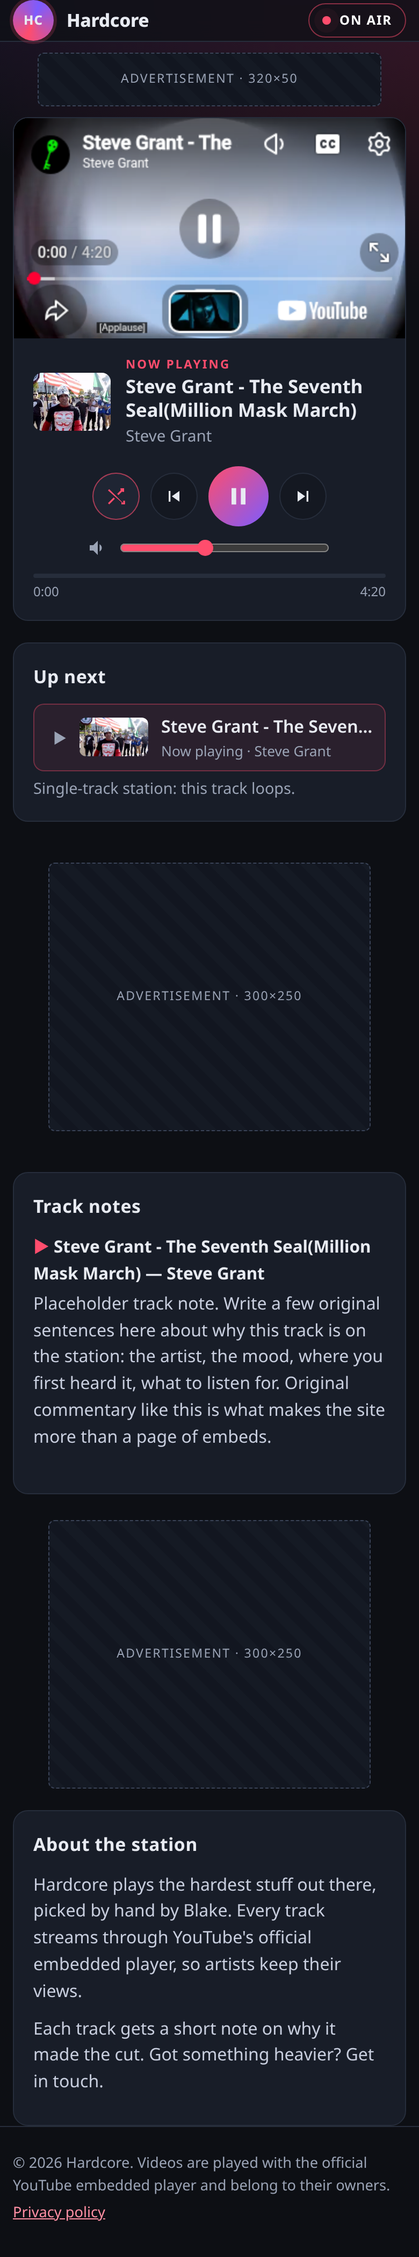
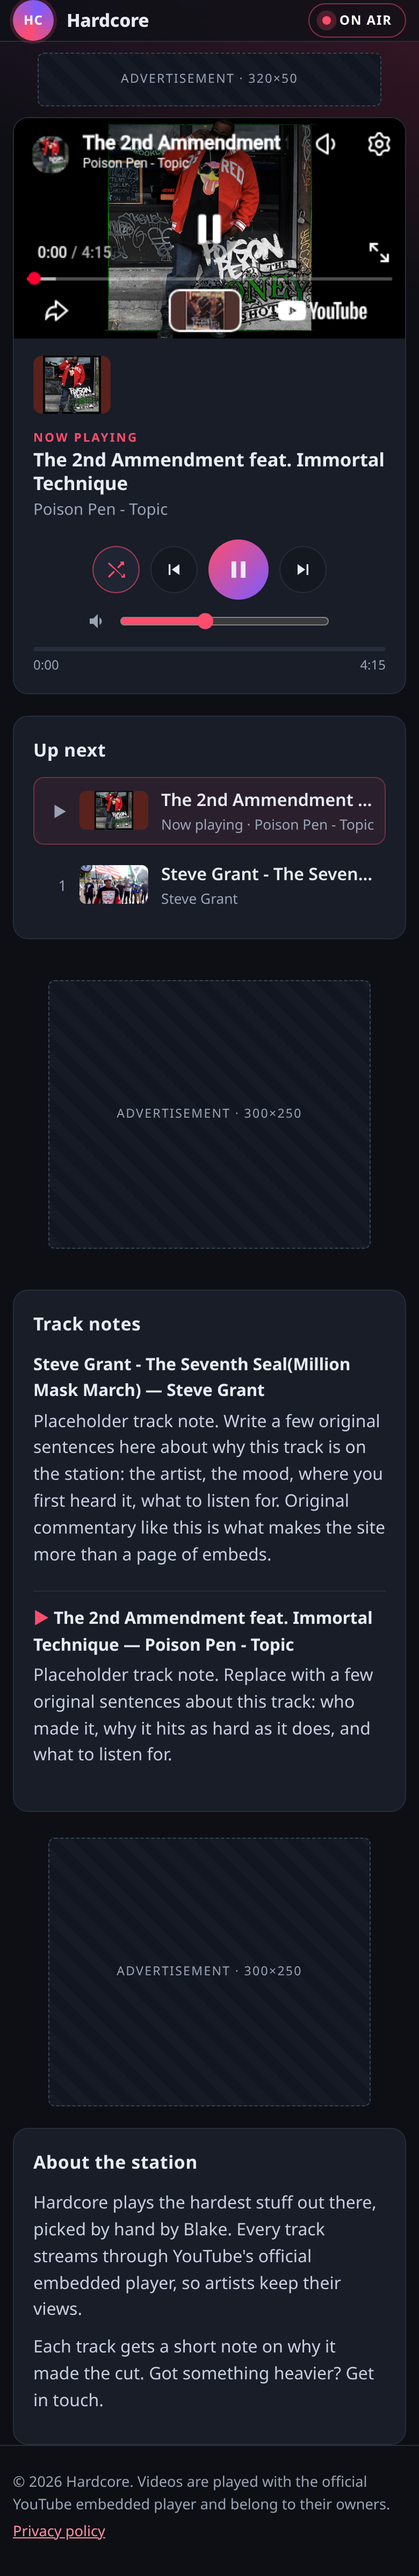
Add second track (1yOoM7_AseY) and Firebase thumbs up/down ratings (hidden until configured)

diff --git a/ratings.js b/ratings.js
@@ -1,0 +1,154 @@
+/* Hardcore: per-track thumbs up/down ratings (Firebase Firestore + Anonymous Auth).
+ * ES module, no build step. Loads the Firebase SDK from gstatic ONLY when firebase-config.js
+ * holds a real config. With placeholders it does nothing (UI stays hidden, no console noise).
+ * Talks to app.js via window.RadioState and the "radio:tracks" event.
+ */
+const SDK = "https://www.gstatic.com/firebasejs/12.19.0";
+const ID_RE = /^[A-Za-z0-9_-]{11}$/;
+
+function isConfigured(c) {
+  return !!(c && c.apiKey && c.projectId && c.appId &&
+    ![c.apiKey, c.projectId, c.appId].some((v) => /YOUR_|PLACEHOLDER/i.test(String(v))));
+}
+
+// Local testing against the Firebase emulators: http://localhost:8080/?emulator=1
+const params = new URLSearchParams(location.search);
+const EMU = params.has("emulator") && /^(localhost|127\.0\.0\.1)$/.test(location.hostname);
+const cfg = EMU ? { apiKey: "demo-key", projectId: "demo-hardcore", appId: "demo-app", authDomain: "localhost" }
+                : window.FIREBASE_CONFIG;
+
+if (isConfigured(cfg)) init().catch((e) => { hideUi(); console.info("Ratings unavailable:", e && e.code || e); });
+
+function hideUi() { const r = document.getElementById("rating"); if (r) r.hidden = true; }
+
+async function init() {
+  const [{ initializeApp }, A, F] = await Promise.all([
+    import(`${SDK}/firebase-app.js`), import(`${SDK}/firebase-auth.js`), import(`${SDK}/firebase-firestore.js`),
+  ]);
+  const app = initializeApp(cfg);
+  const auth = A.getAuth(app);
+  const db = F.getFirestore(app);
+  if (EMU) {
+    A.connectAuthEmulator(auth, "http://127.0.0.1:9099", { disableWarnings: true });
+    F.connectFirestoreEmulator(db, "127.0.0.1", 8081);
+  }
+
+  const ui = {
+    root: document.getElementById("rating"),
+    up: document.getElementById("rate-up"), down: document.getElementById("rate-down"),
+    upN: document.getElementById("rate-up-n"), downN: document.getElementById("rate-down-n"),
+    summary: document.getElementById("rate-summary"),
+  };
+  const counts = new Map();   // videoId -> {up, down}
+  let currentId = null, myVote = 0, unsubTrack = null, unsubVote = null, busy = false;
+  let user = auth.currentUser;
+
+  const trackRef = (id) => F.doc(db, "tracks", id);
+  const voteRef = (id, uid) => F.doc(db, "tracks", id, "votes", uid);
+
+  function summaryText(c) {
+    const total = (c.up || 0) + (c.down || 0);
+    if (!total) return "No ratings yet. Be the first.";
+    return `${Math.round((100 * c.up) / total)}% liked · ${total} vote${total === 1 ? "" : "s"}`;
+  }
+  function renderCurrent() {
+    const c = counts.get(currentId) || { up: 0, down: 0 };
+    ui.upN.textContent = c.up || 0;
+    ui.downN.textContent = c.down || 0;
+    ui.summary.textContent = summaryText(c);
+    ui.up.setAttribute("aria-pressed", String(myVote === 1));
+    ui.down.setAttribute("aria-pressed", String(myVote === -1));
+    ui.up.disabled = ui.down.disabled = busy || !currentId;
+  }
+  function renderQueueBadges() {
+    document.querySelectorAll("#queue button[data-id]").forEach((b) => {
+      const c = counts.get(b.dataset.id);
+      let badge = b.querySelector(".q-rating");
+      const total = c ? c.up + c.down : 0;
+      if (!total) { if (badge) badge.remove(); return; }
+      if (!badge) { badge = document.createElement("span"); badge.className = "q-rating"; b.appendChild(badge); }
+      badge.textContent = `👍 ${Math.round((100 * c.up) / total)}%`;
+      badge.title = `${c.up} up · ${c.down} down`;
+    });
+  }
+
+  function watchCurrent(id) {
+    if (id === currentId) return;
+    currentId = id; myVote = 0;
+    if (unsubTrack) unsubTrack();
+    unsubTrack = F.onSnapshot(trackRef(id), (s) => {
+      const d = s.data() || {};
+      counts.set(id, { up: d.up || 0, down: d.down || 0 });
+      renderCurrent(); renderQueueBadges();
+    }, () => hideUi());
+    watchMyVote();
+    renderCurrent();
+  }
+  function watchMyVote() {
+    if (unsubVote) { unsubVote(); unsubVote = null; }
+    if (!user || !currentId) { myVote = 0; renderCurrent(); return; }
+    const id = currentId;
+    unsubVote = F.onSnapshot(voteRef(id, user.uid), (s) => {
+      if (id !== currentId) return;
+      myVote = s.exists() ? s.data().value : 0; renderCurrent();
+    }, () => {});
+  }
+
+  // Aggregates for the queue (one query per 30 IDs, refetched when the queue changes).
+  let lastIds = "";
+  async function loadQueueCounts(ids) {
+    ids = [...new Set(ids.filter((x) => ID_RE.test(x)))].slice(0, 60);
+    const key = ids.join(",");
+    if (key === lastIds) { renderQueueBadges(); return; }
+    lastIds = key;
+    for (let i = 0; i < ids.length; i += 30) {
+      const chunk = ids.slice(i, i + 30);
+      try {
+        const snap = await F.getDocs(F.query(F.collection(db, "tracks"), F.where(F.documentId(), "in", chunk)));
+        snap.forEach((d) => counts.set(d.id, { up: d.data().up || 0, down: d.data().down || 0 }));
+      } catch (_) { /* non-critical */ }
+    }
+    renderQueueBadges();
+  }
+
+  async function vote(value) {
+    if (!currentId || busy) return;
+    busy = true; renderCurrent();
+    const id = currentId;
+    try {
+      if (!user) user = (await A.signInAnonymously(auth)).user;
+      await F.runTransaction(db, async (tx) => {
+        const [t, v] = await Promise.all([tx.get(trackRef(id)), tx.get(voteRef(id, user.uid))]);
+        const c = t.exists() ? t.data() : { up: 0, down: 0 };
+        const old = v.exists() ? v.data().value : 0;
+        const next = old === value ? 0 : value;           // clicking your current vote removes it
+        const up = (c.up || 0) + (next === 1) - (old === 1);
+        const down = (c.down || 0) + (next === -1) - (old === -1);
+        tx.set(trackRef(id), { up, down });
+        if (next) tx.set(voteRef(id, user.uid), { value: next, updatedAt: F.serverTimestamp() });
+        else tx.delete(voteRef(id, user.uid));
+      });
+    } catch (e) {
+      console.info("Vote not saved:", e && e.code || e);
+      ui.summary.textContent = "Couldn't save your vote. Try again.";
+    } finally {
+      busy = false; renderCurrent();
+    }
+  }
+
+  ui.up.addEventListener("click", () => vote(1));
+  ui.down.addEventListener("click", () => vote(-1));
+  A.onAuthStateChanged(auth, (u) => { user = u; watchMyVote(); });
+
+  function onTracks(state) {
+    if (!state) return;
+    if (state.current && ID_RE.test(state.current)) watchCurrent(state.current);
+    loadQueueCounts(state.ids || []);
+  }
+  document.addEventListener("radio:tracks", (e) => onTracks(e.detail));
+  ui.root.hidden = false;
+  onTracks(window.RadioState);
+
+  // Test hook (emulator only).
+  if (EMU) window.__ratings = { vote, auth, db, F, A, counts: () => counts.get(currentId), myVote: () => myVote };
+}

diff --git a/index.html b/index.html
@@ -65,6 +65,20 @@
             <h1 class="np-title" id="np-title">Tuning in…</h1>
             <a class="np-channel" id="np-channel" target="_blank" rel="noopener"></a>
           </div>
+          <!-- Ratings (ratings.js). Stays hidden unless firebase-config.js holds a real config. -->
+          <div class="rating" id="rating" hidden>
+            <div class="rating-buttons" role="group" aria-label="Rate this track">
+              <button class="rate" id="rate-up" aria-pressed="false" title="Thumbs up" aria-label="Thumbs up">
+                <svg viewBox="0 0 24 24"><path d="M2 21h4V9H2v12zm20-11a2 2 0 0 0-2-2h-6.3l1-4.6v-.3c0-.4-.2-.8-.4-1.1L13.2 1 6.6 7.6C6.2 8 6 8.5 6 9v10a2 2 0 0 0 2 2h9c.8 0 1.5-.5 1.8-1.2l3-7.1c.1-.2.2-.5.2-.7v-2z"/></svg>
+                <span id="rate-up-n">0</span>
+              </button>
+              <button class="rate rate-down" id="rate-down" aria-pressed="false" title="Thumbs down" aria-label="Thumbs down">
+                <svg viewBox="0 0 24 24"><path d="M22 3h-4v12h4V3zM2 14a2 2 0 0 0 2 2h6.3l-1 4.6v.3c0 .4.2.8.4 1.1l1.1 1 6.6-6.6c.4-.4.6-.9.6-1.4V5a2 2 0 0 0-2-2H7c-.8 0-1.5.5-1.8 1.2l-3 7.1c-.1.2-.2.5-.2.7v2z"/></svg>
+                <span id="rate-down-n">0</span>
+              </button>
+            </div>
+            <span class="rate-summary" id="rate-summary" aria-live="polite"></span>
+          </div>
         </div>
 
         <div class="controls" role="group" aria-label="Playback controls">
@@ -150,5 +164,7 @@
   <script src="playlist.js"></script>
   <script src="track-meta.js" onerror="window.TRACK_META = {}"></script>
   <script src="app.js"></script>
+  <script src="firebase-config.js"></script>
+  <script type="module" src="ratings.js"></script>
 </body>
 </html>

diff --git a/app.js b/app.js
@@ -90,7 +90,7 @@
       var t = tracks[order[p]];
       var li = document.createElement("li");
       if (k === 0) li.className = "current";
-      var b = document.createElement("button"); b.type = "button"; b.dataset.pos = p;
+      var b = document.createElement("button"); b.type = "button"; b.dataset.pos = p; b.dataset.id = t.id;
       b.setAttribute("aria-label", "Play " + (t.title || t.id));
       var num = document.createElement("span"); num.className = "q-num"; num.textContent = k === 0 ? "▶" : String(k);
       var img = document.createElement("img"); img.src = thumbUrl(t.id); img.alt = ""; img.loading = "lazy";
@@ -124,7 +124,14 @@
     });
   }
 
-  function renderAll() { renderNowPlaying(); renderQueue(); renderNotes(); }
+  // Publish state for optional add-ons (ratings.js): current video ID + queue IDs.
+  function notify() {
+    var t = current();
+    window.RadioState = { current: t ? t.id : null, ids: tracks.map(function (x) { return x.id; }) };
+    try { document.dispatchEvent(new CustomEvent("radio:tracks", { detail: window.RadioState })); } catch (_) {}
+  }
+
+  function renderAll() { renderNowPlaying(); renderQueue(); renderNotes(); notify(); }
 
   function setPlaying(on) {
     playing = on;
@@ -166,7 +173,7 @@
     if (shuffleOn) for (var i = rest.length - 1; i > 0; i--) { var j = Math.floor(Math.random() * (i + 1)); var x = rest[i]; rest[i] = rest[j]; rest[j] = x; }
     order = [curIdx].concat(rest); pos = 0;
     if (!shuffleOn) { order = tracks.map(function (_, i) { return i; }); pos = curIdx; }
-    renderQueue();
+    renderQueue(); notify();
   }
   function togglePlay() {
     if (!ready) return;

diff --git a/styles.css b/styles.css
@@ -147,3 +147,22 @@ a { color: #ff8fa3; }
   .volume { margin-left: 0; width: 100%; justify-content: center; }
   .volume input { width: 60%; }
 }
+
+/* Ratings */
+.rating { margin-left: auto; display: flex; flex-direction: column; align-items: flex-end; gap: 4px; flex: none; }
+.rating[hidden] { display: none; }
+.rating-buttons { display: flex; gap: 8px; }
+.rate { display: inline-flex; align-items: center; gap: 6px; height: 36px; padding: 0 12px; border-radius: 999px;
+  border: 1px solid var(--line); background: var(--bg-2); color: var(--text); font: inherit; font-size: .9rem;
+  cursor: pointer; font-variant-numeric: tabular-nums; transition: background .2s, border-color .2s, color .2s; }
+.rate svg { width: 16px; height: 16px; fill: currentColor; }
+.rate:hover { background: #1f2533; border-color: #3a4357; }
+.rate:disabled { opacity: .6; cursor: default; }
+.rate[aria-pressed="true"] { color: #fff; border-color: transparent; background: linear-gradient(135deg, var(--accent), var(--accent-2)); }
+.rate-down[aria-pressed="true"] { background: #3a4357; }
+.rate-summary { color: var(--muted); font-size: .78rem; }
+.queue .q-rating { margin-left: auto; flex: none; font-size: .78rem; color: var(--muted); padding-left: 8px; font-variant-numeric: tabular-nums; }
+@media (max-width: 760px) {
+  .now-playing { flex-wrap: wrap; }
+  .rating { margin-left: 0; width: 100%; flex-direction: row; align-items: center; justify-content: space-between; }
+}

diff --git a/playlist.js b/playlist.js
@@ -23,7 +23,7 @@ window.STATION_CONFIG = {
   source: {
     type: "videos",             // "videos" | "playlist"
     playlistId: "",             // used when type === "playlist", e.g. "PLxxxxxxxxxxxxxxxx"
-    loop: true,                 // loop the station when the last track ends
+    loop: true,                 // after the last track, start the list again (true = nonstop radio, false = stop)
   },
 
   // Track list for "videos" mode. title/channel are optional: if omitted, the site uses
@@ -38,6 +38,15 @@ window.STATION_CONFIG = {
         "Placeholder track note. Write a few original sentences here about why this track is " +
         "on the station: the artist, the mood, where you first heard it, what to listen for. " +
         "Original commentary like this is what makes the site more than a page of embeds.",
+    },
+    {
+      id: "1yOoM7_AseY",
+      title: "",
+      channel: "",
+      // EDITABLE: placeholder note
+      notes:
+        "Placeholder track note. Replace with a few original sentences about this track: who made it, " +
+        "why it hits as hard as it does, and what to listen for.",
     },
   ],
 

diff --git a/privacy.html b/privacy.html
@@ -26,6 +26,9 @@
     <h2>Cookies and local storage</h2>
     <p>The site itself does not set tracking cookies. It saves your volume setting in your browser's local storage, and that value never leaves your device. Third parties named below (Google and YouTube) may set cookies or use similar technologies when you visit.</p>
 
+    <h2>Track ratings</h2>
+    <p>If you rate a track, the site signs you in anonymously with Google Firebase Authentication. This creates a random ID and stores it in your browser (IndexedDB/local storage). No name, email, or account is needed. Your vote (up or down) is saved in Google Cloud Firestore under that random ID, and the vote totals are public. Firebase processes data as described in the <a href="https://firebase.google.com/support/privacy" rel="noopener">Firebase privacy information</a>. Clearing your browser data removes the ID from your device.</p>
+
     <h2>Google advertising (AdSense)</h2>
     <ul>
       <li>Third-party vendors, including Google, use cookies to serve ads based on a user's prior visits to this website or other websites.</li>

diff --git a/firebase-config.js b/firebase-config.js
@@ -1,0 +1,14 @@
+/*
+ * Firebase config for track ratings (thumbs up/down).
+ * Paste the values from Firebase console > Project settings > Your apps > Web app > SDK setup.
+ * While these are placeholders the rating UI stays hidden and the site works as before.
+ * (Firebase web config values are not secrets. Access is controlled by firestore.rules.)
+ */
+window.FIREBASE_CONFIG = {
+  apiKey: "YOUR_API_KEY",
+  authDomain: "YOUR_PROJECT_ID.firebaseapp.com",
+  projectId: "YOUR_PROJECT_ID",
+  storageBucket: "YOUR_PROJECT_ID.firebasestorage.app",
+  messagingSenderId: "YOUR_SENDER_ID",
+  appId: "YOUR_APP_ID",
+};

diff --git a/track-meta.js b/track-meta.js
@@ -4,5 +4,10 @@ window.TRACK_META = {
     "title": "Steve Grant - The Seventh Seal(Million Mask March)",
     "channel": "Steve Grant",
     "channelUrl": "https://www.youtube.com/@stevegrant8805"
+  },
+  "1yOoM7_AseY": {
+    "title": "The 2nd Ammendment feat. Immortal Technique",
+    "channel": "Poison Pen - Topic",
+    "channelUrl": "https://www.youtube.com/channel/UCQ81HlRNBAtB3ZyaVAtz_gg"
   }
 };

diff --git a/README.md b/README.md
@@ -1,6 +1,6 @@
 # Hardcore: web radio (prototype)
 
-Live: https://blakelapierre.github.io/hardcore-radio/
+Live: https://hardcoreradio.website/ (custom domain via `CNAME`; also reachable at https://blakelapierre.github.io/hardcore-radio/)
 
 A static "web radio" site that plays YouTube videos through the **official YouTube IFrame Player API**, with display-ad placeholders placed around the player.
 
@@ -8,6 +8,10 @@ A static "web radio" site that plays YouTube videos through the **official YouTu
 index.html        page layout: player, Now Playing, controls, queue, notes, about, ad slots
 styles.css        dark theme + responsive layout (desktop / tablet / mobile)
 app.js            player logic (IFrame API, queue, shuffle, auto-advance, volume)
+ratings.js        thumbs up/down ratings (Firebase, loaded only when configured)
+firebase-config.js  ← paste your Firebase web config here (placeholders = ratings hidden)
+firestore.rules   Firestore security rules for ratings
+firebase.json     Firebase CLI config (rules deploy + local emulators)
 playlist.js       ← STATION CONFIG: name, tagline, tracks/playlist, track notes, about text
 track-meta.js     generated titles/channels (from YouTube oEmbed), see below
 tools/fetch_titles.py   build step that regenerates track-meta.js
@@ -37,7 +41,7 @@ Edit `playlist.js`:
   You control the order, and every track gets its own note.
 - **A regular YouTube playlist**: set `source.type: "playlist"` and `source.playlistId: "PL…"`. The player loads it with `loadPlaylist({ listType: "playlist", list })`, and the queue mirrors `player.getPlaylist()`. You can add notes per video in `playlistNotes`.
   Don't use auto-generated Mix lists (`RD…`). They change from viewer to viewer and can't be relied on.
-- `source.loop` (default `true`) loops the station. With one track, that track repeats.
+- `source.loop` (default `true`) starts the list again after the last track, so the station plays nonstop. Set it to `false` to stop after the last track. Tracks auto-advance either way.
 
 After you change the track IDs, refresh the titles:
 ```bash
@@ -49,6 +53,33 @@ If this step is skipped or fails, the site reads the title and channel from `pla
 In `playlist.js` → `station`: `name`, `tagline`, `logoText` (badge letters), or `logoImage` (e.g. `assets/logo.png`). The `about` array holds the About-the-station paragraphs. The current tagline and About text are placeholders marked `EDITABLE`. The page `<title>` and the static header text in `index.html`/`privacy.html` also say "Hardcore", and so do the footer and the logo initials ("HC"). Update those too, for SEO and for visitors without JS.
 
 Set `privacyEnhancedMode: true` to embed from `youtube-nocookie.com`.
+
+## Track ratings (Firebase)
+Visitors can give each track a thumbs up or down. The Now Playing panel shows the up/down counts and "% liked · N votes", and the queue shows a 👍 % badge for each rated track. Clicking your current vote again removes it.
+
+How it works: `ratings.js` loads the Firebase modular SDK (v12.19.0) from `www.gstatic.com`. There's no build step. The visitor is signed in with **Anonymous Auth** the first time they vote. Votes are stored at `tracks/{videoId}/votes/{uid}` as `{ value: 1 | -1, updatedAt }`, and each vote change runs in a transaction that also updates the counter doc `tracks/{videoId}` `{ up, down }`. `firestore.rules` allows public reads. It only allows a signed-in user to write **their own** vote doc, with value 1 or -1, and only if the counters change by exactly that vote in the same write. Nobody can set counters directly or delete them.
+While `firebase-config.js` still holds the `YOUR_…` placeholders, the rating UI stays hidden, the SDK is never downloaded, and nothing is logged.
+Limitation: with anonymous auth, "one vote per visitor" really means one vote per browser. Someone who clears their storage or uses a private window gets a new ID. For stronger protection, add Firebase App Check (reCAPTCHA Enterprise) later.
+
+### Steps for Blake (about 10 minutes)
+1. **Create a project:** go to https://console.firebase.google.com and click **Create a project** (e.g. `hardcore-radio`). Google Analytics is optional; you can turn it off.
+2. **Add a web app:** Project Overview → **Add app** → **Web** (`</>`). Use the nickname `hardcore-radio-web` and do **not** tick Firebase Hosting. Click **Register app**.
+3. **Paste the config:** copy the `firebaseConfig` values it shows (`apiKey`, `authDomain`, `projectId`, `storageBucket`, `messagingSenderId`, `appId`) into `firebase-config.js`, replacing the `YOUR_…` placeholders. These values are not secret; the security rules protect the data. (You can find them again later under Project settings ⚙ → General → Your apps.)
+4. **Enable Anonymous auth:** Build → **Authentication** → **Get started** → **Sign-in method** tab → **Anonymous** → Enable → Save.
+5. **Create Firestore:** Build → **Firestore Database** → **Create database** → Standard edition, location e.g. `nam5 (United States)` (this can't be changed later) → **Start in production mode** → Create.
+6. **Publish the rules:** Firestore Database → **Rules** tab → replace everything with the contents of `firestore.rules` → **Publish**.
+   Or use the CLI: `npx firebase-tools login`, then `npx firebase-tools deploy --only firestore:rules --project <your-project-id>` from this folder.
+7. **Add authorized domains:** Authentication → **Settings** tab → **Authorized domains** → **Add domain** → add `hardcoreradio.website` and `blakelapierre.github.io`. (`localhost` is there by default.)
+8. **Optional (recommended): restrict the API key.** Google Cloud console → APIs & Services → Credentials → open the "Browser key (auto created by Firebase)" → Application restrictions: **Websites** → add `https://hardcoreradio.website/*`, `https://blakelapierre.github.io/*`, `http://localhost:8080/*`.
+9. Commit and push `firebase-config.js`. Within a minute or two GitHub Pages redeploys and the thumbs appear under Now Playing.
+
+### Testing locally with the emulator
+Requires Java 21+.
+```bash
+npx firebase-tools emulators:start --only auth,firestore --project demo-hardcore   # uses firestore.rules
+python3 -m http.server 8080
+# open http://localhost:8080/?emulator=1   (?emulator=1 only works on localhost; it uses a demo project)
+```
 
 ## Ad slots
 Each slot in `index.html` is a `<div class="ad-slot …">` placeholder holding a commented AdSense `<ins>` template:
